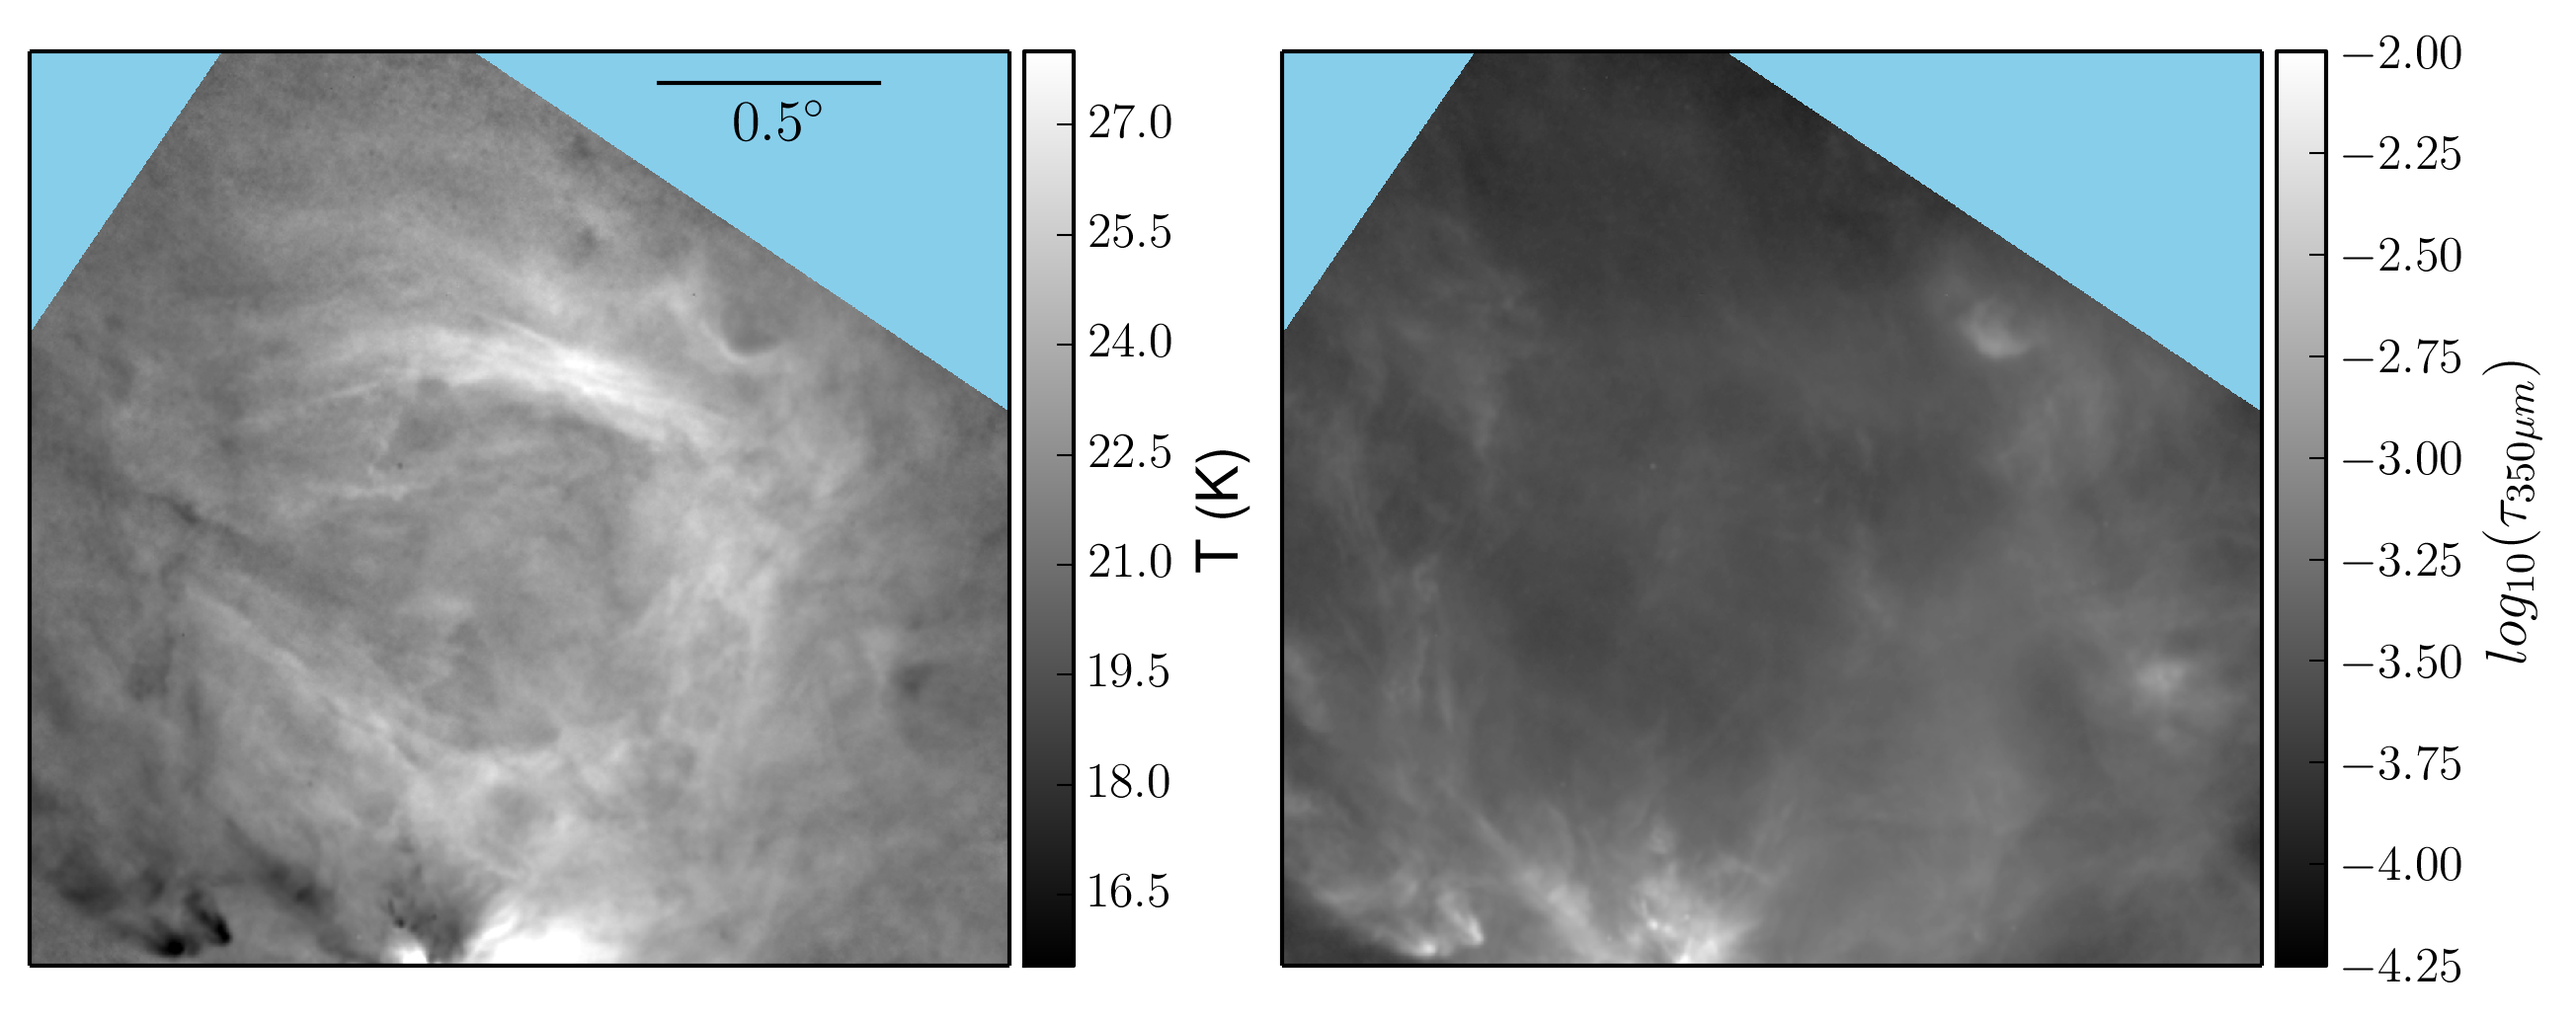
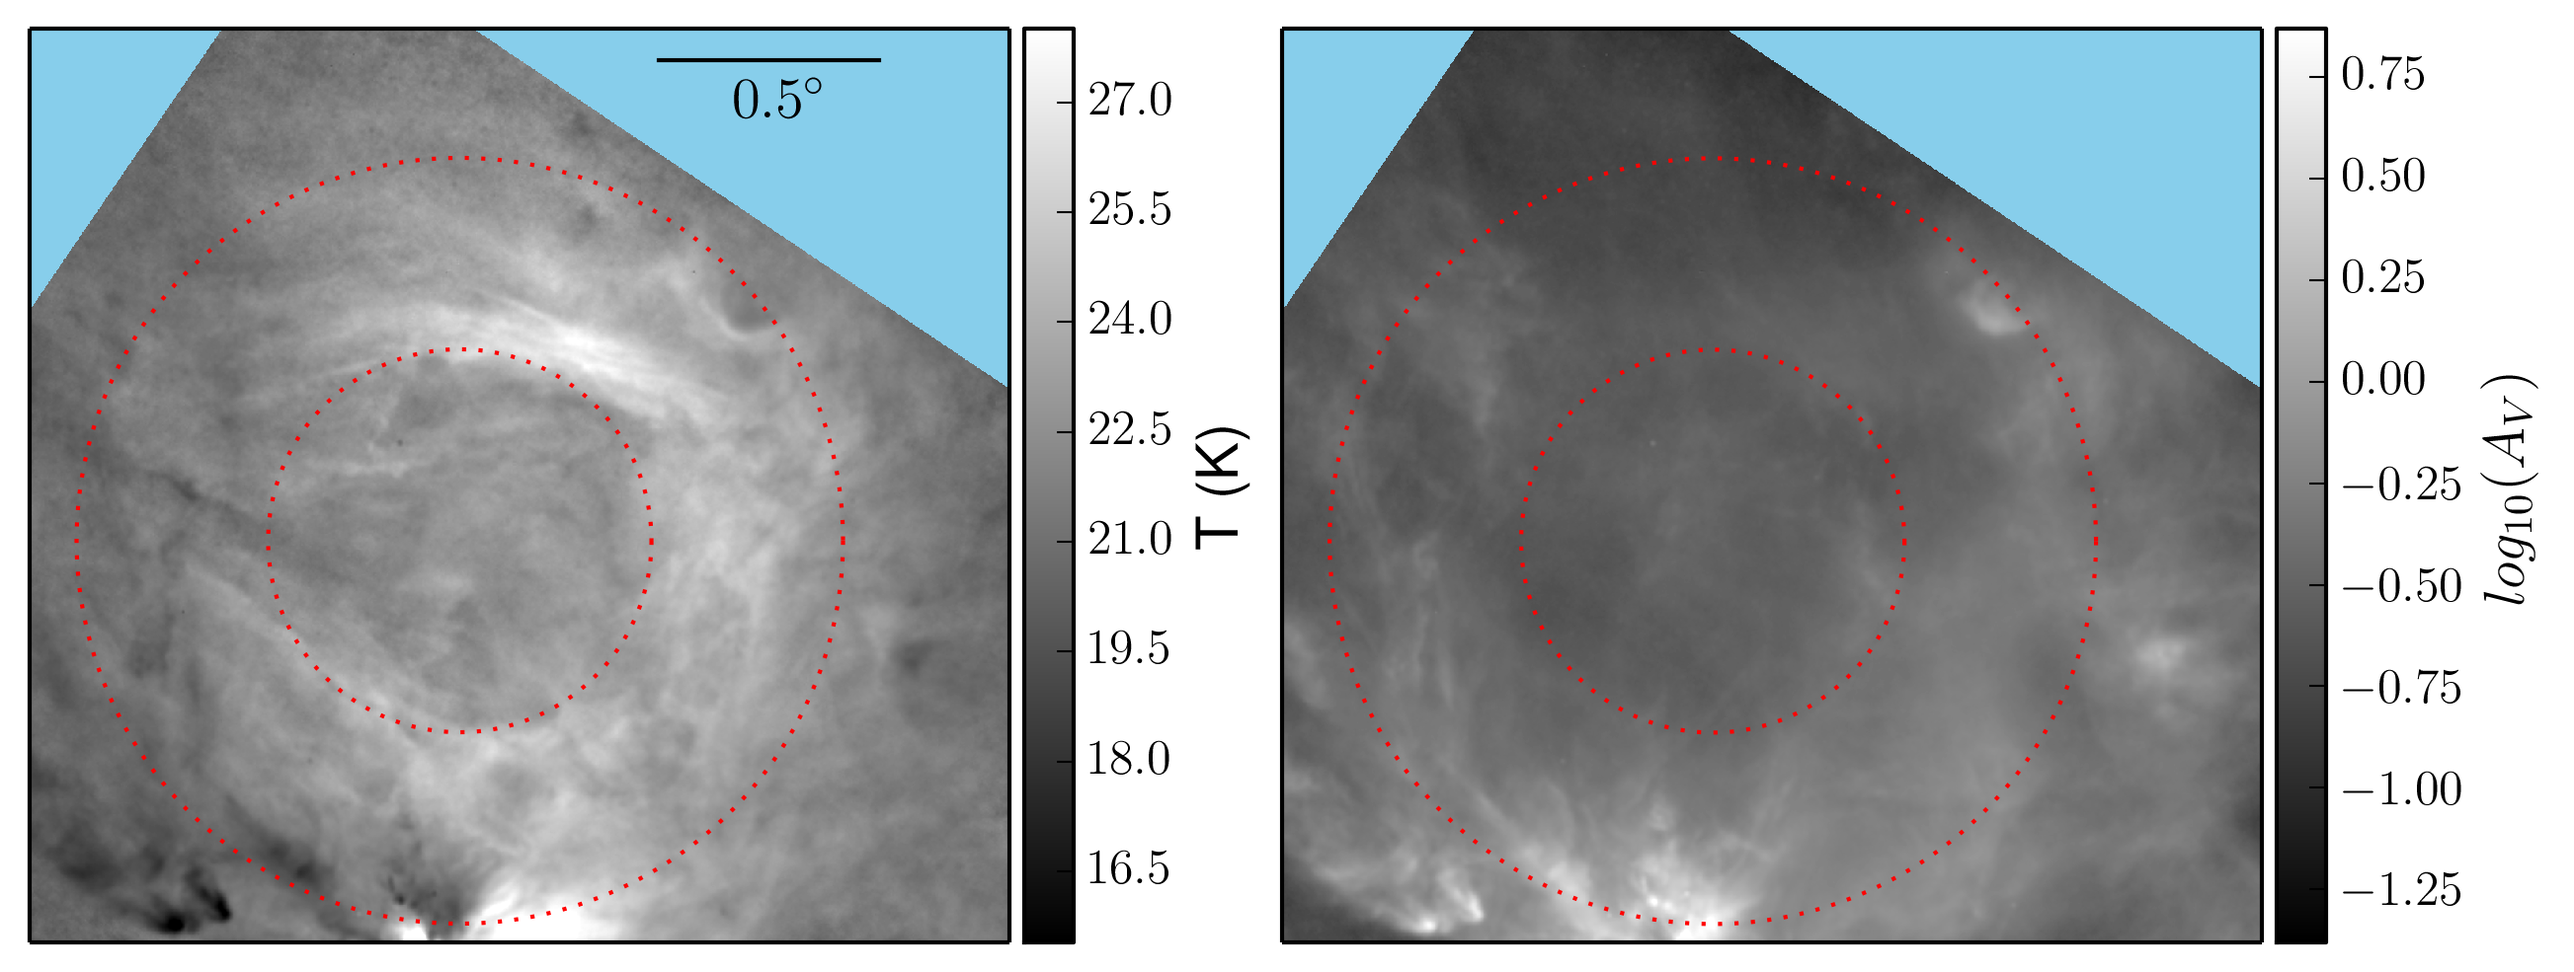
fixing up Figure 1

diff --git a/oph_shell.tex b/oph_shell.tex
@@ -46,8 +46,7 @@ The NICEST algorithm is the latest version of a near-infrared color excess metho
 \begin{figure*}[ht]
 \centering
 \includegraphics[scale=0.8]{fig/shell_herschel.png}
-\caption{\label{fig:herschel_shell}Left: \textit{Herschel}-based dust temperature, displaying the hot shell-like structure characterized throughout this study. Right: Corresponding Herschel-based optical depth at 350$\mu$m.
-}
+\caption{\label{fig:herschel_shell}Left: \textit{Herschel}-based dust temperature, displaying the hot shell-like structure characterized throughout this study. Right: A rescaling (following the procedure of $\S$\ref{sec:energy_momentum}) of the corresponding Herschel optical depth, shown in units of extinction. The area between the two dashed red circles represents the region used to calculate the shell properties. The footprint shown is 2.2$^{\circ}$$\times$2.1$^{\circ}$, centered at $(\alpha, \delta)$=(246.40$^{\circ}$,$-23.34^{\circ}$).}
 \end{figure*}
 
 \subsection{Herschel Data}
@@ -127,14 +126,15 @@ A_V &= X_{W(^{13}\text{CO})}\,W(^{13}\text{CO})
 \label{sec:results}
 
 \subsection{Energy/Momentum Estimation}
+\label{sec:energy_momentum}
 To estimate the contribution of the embedded B-star wind to the turbulence in the Ophiuchus, we use the {\it Herschel} far-infrared emission for the mass calculation (see \S4 for detailed discussion) and the molecular line emission for the velocity calculation. To estimate the mass, {\it Herschel} 350$\mu$m opacity is assumed to be linearly correlated with 2MASS near-infrared extinction, in logarithmic space. On the other hand, the resolution of molecular line observation allows us to derive velocity dispersion in the cloud and the expansion motion of the shell. A foreground/background correction equivalent to 0.6 magnitude of V-band extinction is applied to the data (Lombardi et al.\ 2015) throughout this section.
 
-\begin{figure*}[ht]
-\centering
-\includegraphics[scale=0.3]{fig/shell_herschel_circles.png}
-\caption{The region used to calculate the shell properties in red, on top of the {\it Herschel} 350$\mu$m opacity and {\it Herschel}-based temperature.
-}
-\end{figure*}
+%\begin{figure*}[ht]
+%\centering
+%\includegraphics[scale=0.3]{fig/shell_herschel_circles.png}
+%\caption{The region used to calculate the shell properties in red, on top of the {\it Herschel} 350$\mu$m opacity and {\it Herschel}-based temperature.
+%}
+%\end{figure*}
 
 \subsubsection{The Cloud}
 The cloud boundary is defined using the column density contours equivalent to 1 and 5 magnitude of V-band extinction. The A$_V$ = 1 and 5 contours correspond to the thresholds used to define ``cloud component'' and ``dense material'' in Lombardi et al.\ (2010), respectively. For each pixel within the cloud boundary, we estimate the mass column density using the equation (Arce et al.\ 2001):
